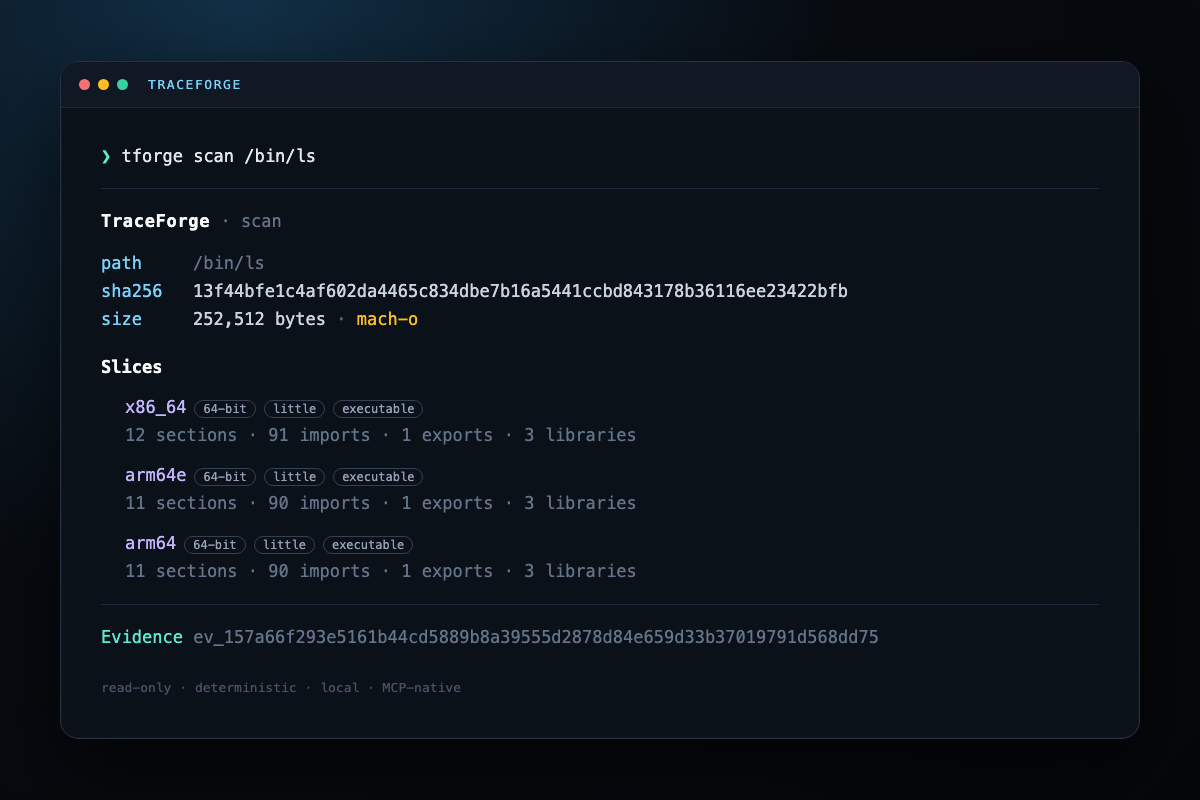
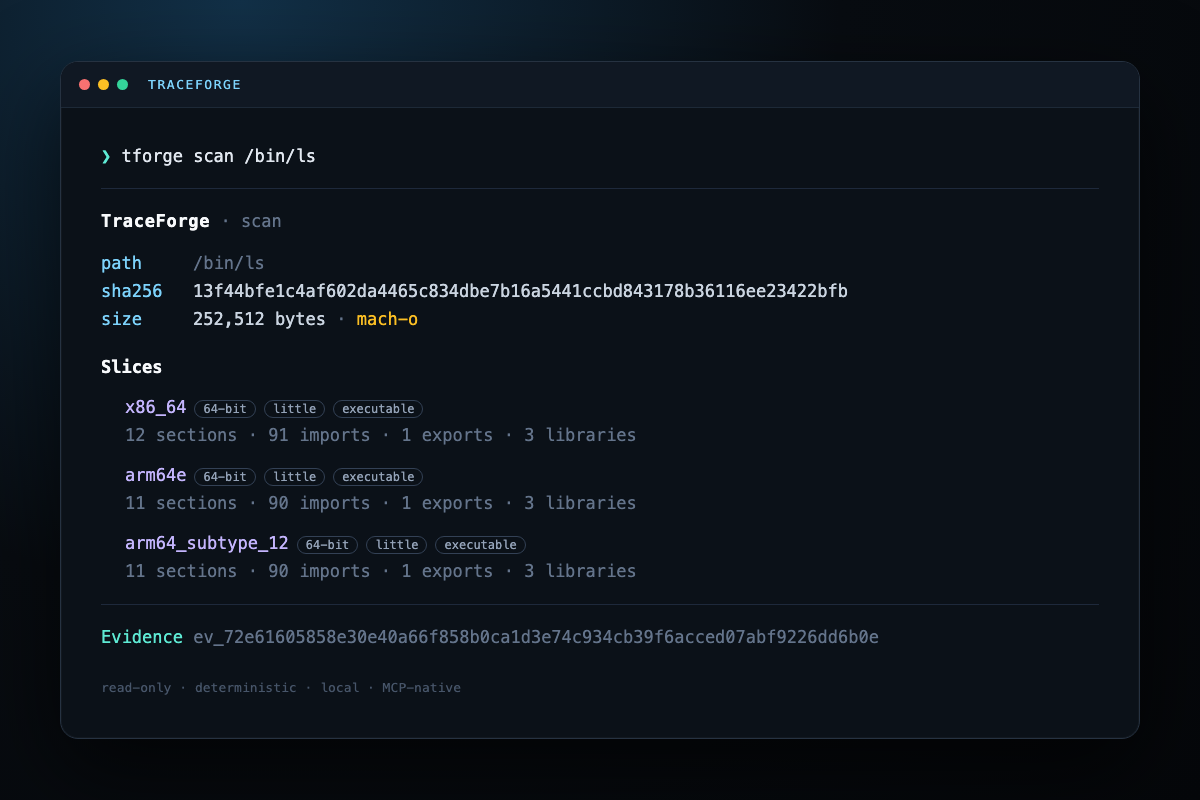
assets: regenerate the README screenshots from the 0.3.0 output

Changed region(s): [[0.185, 0.7812, 0.74, 0.8125], [0.1542, 0.6562, 0.4317, 0.6875]]

diff --git a/assets/demo.html b/assets/demo.html
@@ -46,9 +46,9 @@
       <div style="margin-top:20px" class="name">Slices</div>
       <div class="slice"><span class="violet">x86_64</span><span class="tag">64-bit</span><span class="tag">little</span><span class="tag">executable</span><div class="muted">12 sections · 91 imports · 1 exports · 3 libraries</div></div>
       <div class="slice"><span class="violet">arm64e</span><span class="tag">64-bit</span><span class="tag">little</span><span class="tag">executable</span><div class="muted">11 sections · 90 imports · 1 exports · 3 libraries</div></div>
-      <div class="slice"><span class="violet">arm64</span><span class="tag">64-bit</span><span class="tag">little</span><span class="tag">executable</span><div class="muted">11 sections · 90 imports · 1 exports · 3 libraries</div></div>
+      <div class="slice"><span class="violet">arm64_subtype_12</span><span class="tag">64-bit</span><span class="tag">little</span><span class="tag">executable</span><div class="muted">11 sections · 90 imports · 1 exports · 3 libraries</div></div>
       <div class="rule"></div>
-      <div><span class="evidence">Evidence</span> <span class="muted">ev_157a66f293e5161b44cd5889b8a39555d2878d84e659d33b37019791d568dd75</span></div>
+      <div><span class="evidence">Evidence</span> <span class="muted">ev_72e61605858e30e40a66f858b0ca1d3e74c934cb39f6acced07abf9226dd6b0e</span></div>
       <div class="footer">read-only · deterministic · local · MCP-native</div>
     </div>
   </div>
